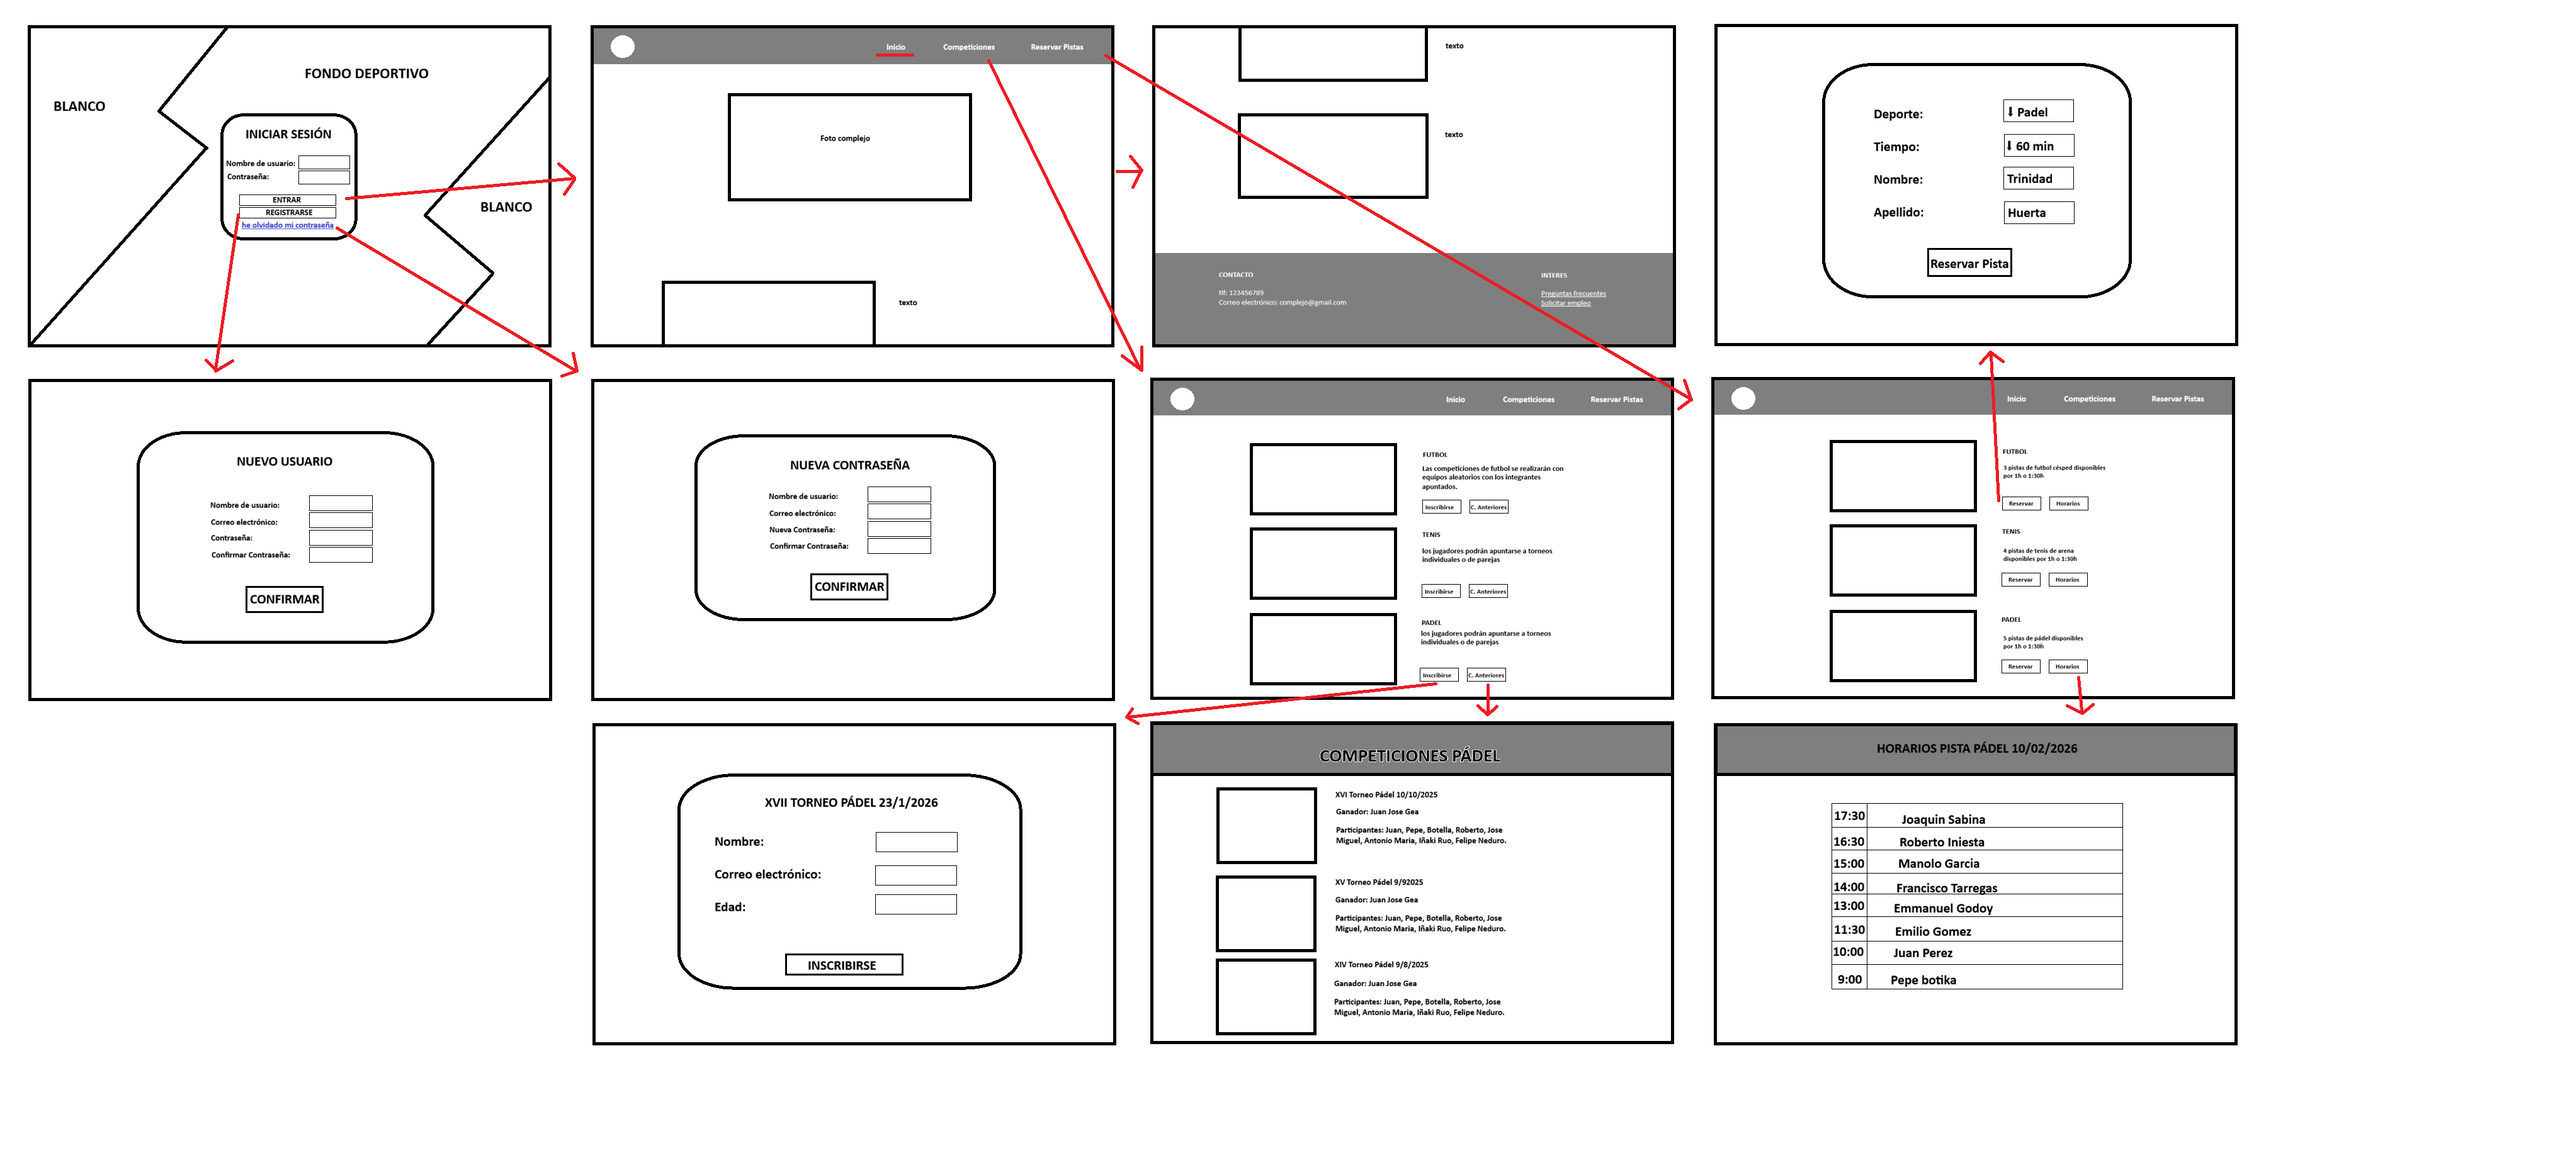
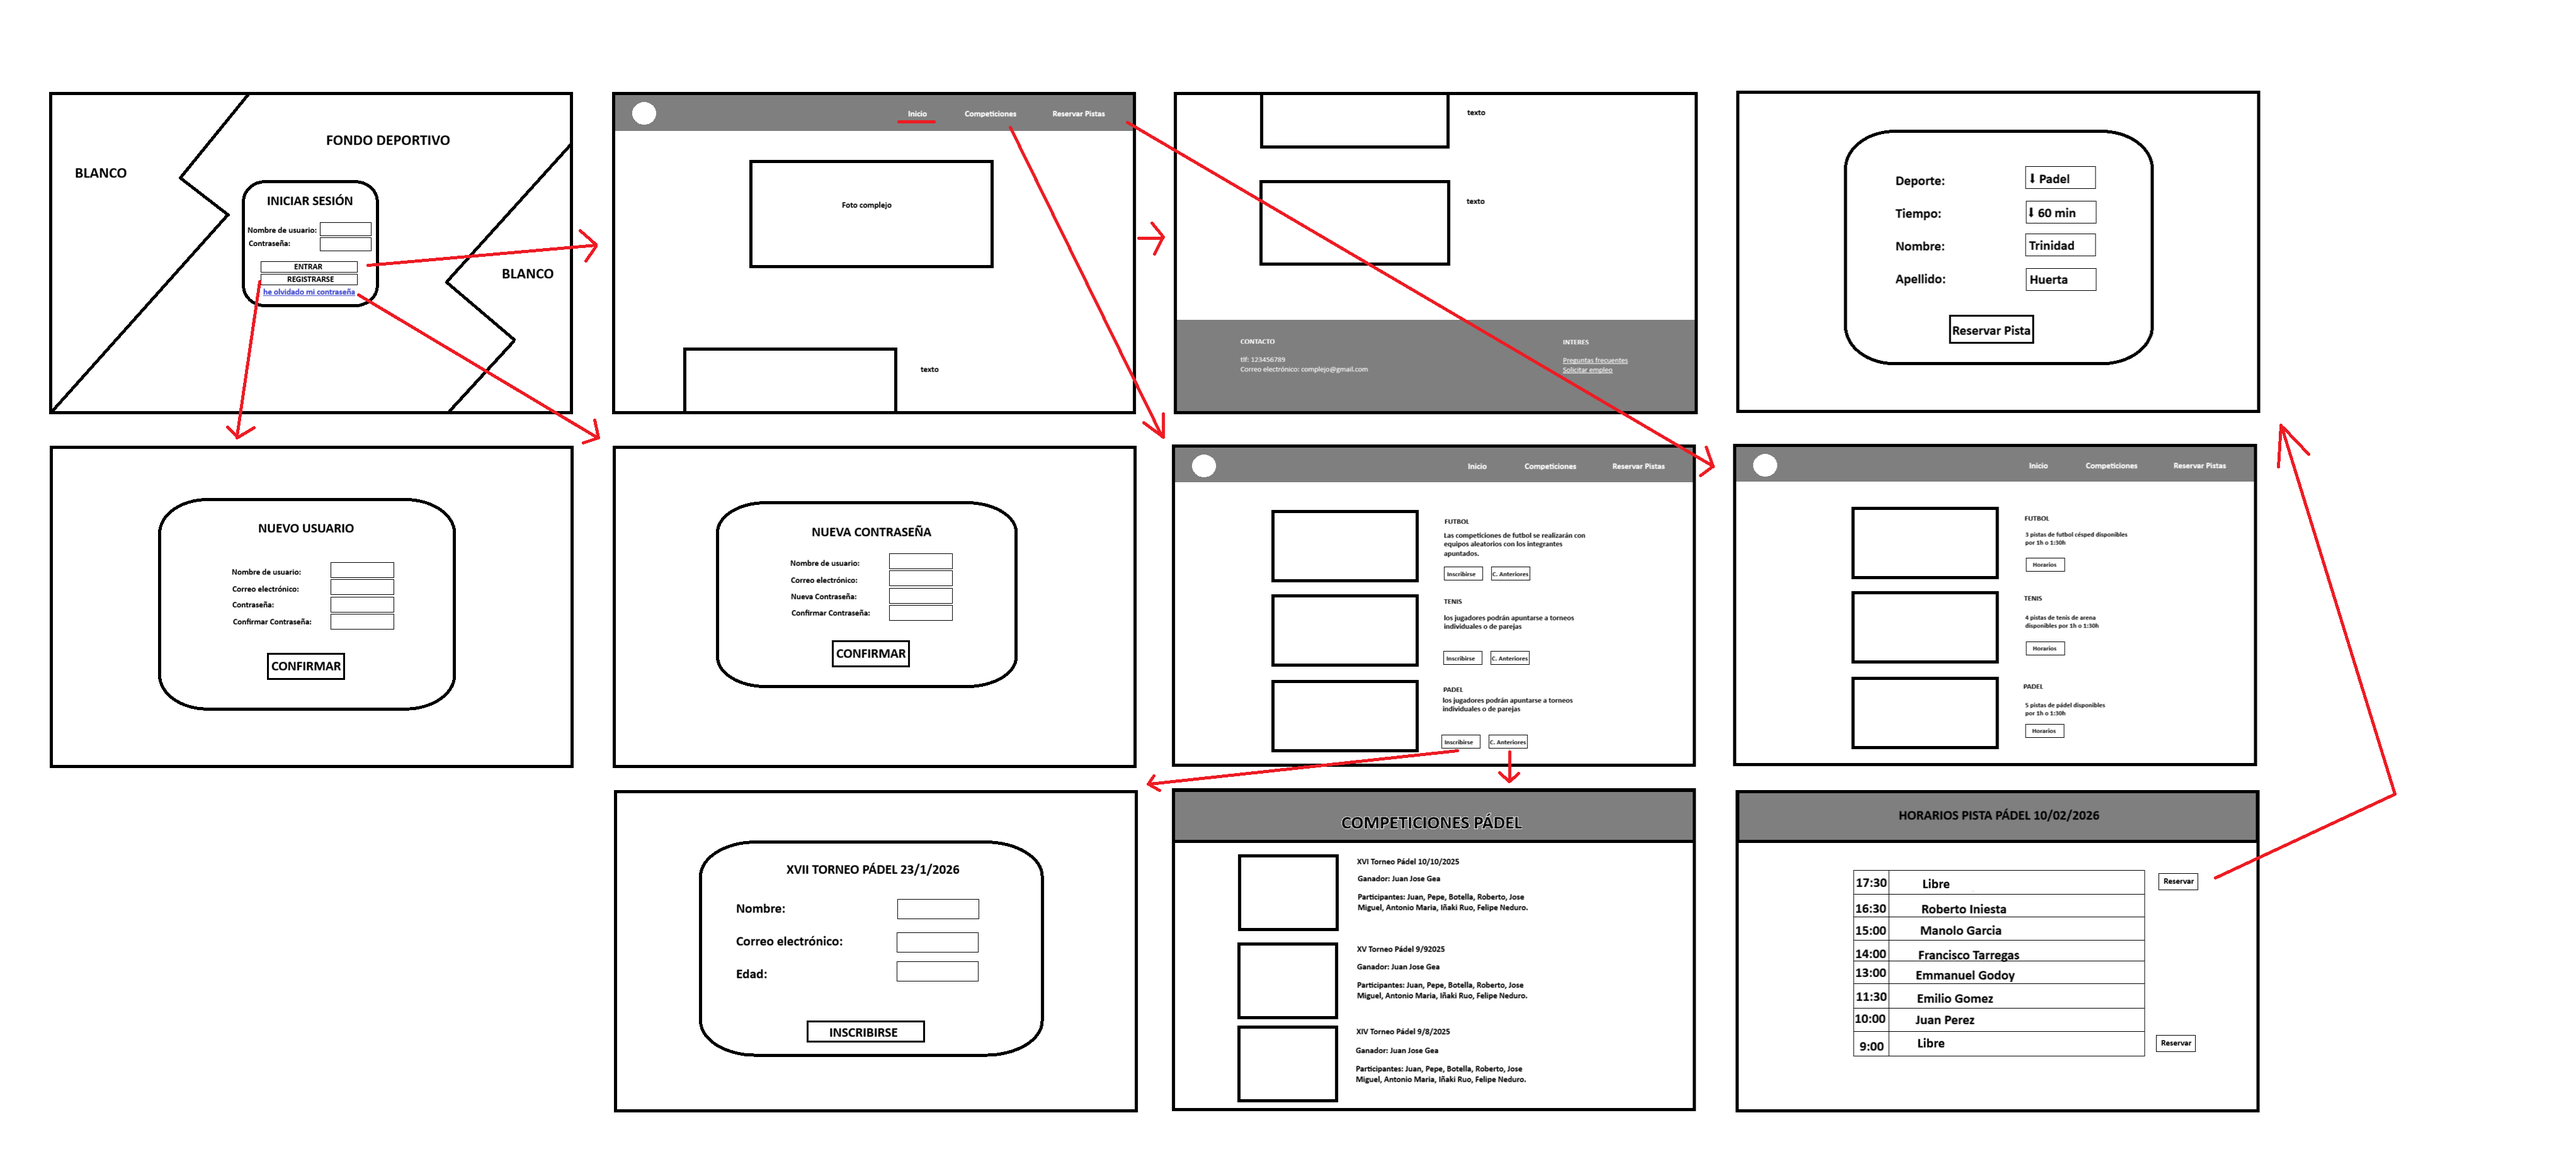
Actualizacion

diff --git a/css/PaginaPrincipal.css b/css/PaginaPrincipal.css
@@ -30,13 +30,10 @@ body {
     text-decoration: none;
     margin-left: 30px;
     font-weight: 500;
-    transition: 0.3s;
+    
 }
 
-.menu a.activo {
-    border-bottom: 2px solid white;
-    padding-bottom: 4px;
-}
+
 
 /* Contenido Principal */
 .contenedor-principal {
@@ -47,32 +44,16 @@ body {
 
 .banner-foto {
     width: 100%;
-    height: 350px;
-    background: white;
-    border: 2px solid #000;
-    border-radius: 20px;
-    display: flex;
-    justify-content: center;
-    align-items: center;
-    font-size: 24px;
-    font-weight: 600;
+    height: auto; /* Permite que la altura crezca con la imagen */
+    background: none; /* Elimina el fondo blanco */
+    border: none;     /* Elimina el recuadro negro */
+    border-radius: 0; /* Elimina las esquinas redondeadas */
+    padding: 0;
     margin-bottom: 40px;
 }
 
-.texto {
-    display: flex;
-    align-items: center;
-    gap: 25px;
-}
-
-.cuadro-boceto {
-    width: 400px;
-    height: 250px;
-    border: 3px solid #000;
-    border-radius: 10px;
-}
-
-.etiqueta {
-    font-size: 20px;
-    font-weight: 600;
+.banner-foto img {
+    width: 100%;      /* Hace la foto más amplia */
+    height: auto;
+    display: block;
 }

diff --git a/PaginaPrincipal.html b/PaginaPrincipal.html
@@ -5,25 +5,21 @@
     <title>Inicio - Gestión de Pistas</title>
     <link rel="stylesheet" href="css/PaginaPrincipal.css">
 </head>
+
 <body>
 
     <nav class="navbar">
         <div class="logo-circular"></div>
         <div class="menu">
-            <a href="#" class="activo">Inicio</a>
-            <a href="#">Competiciones</a>
-            <a href="#">Reservar Pistas</a>
+            <a href="#"> Inicio </a>
+            <a href="#"> Competiciones </a>
+            <a href="#"> Reservar Pistas </a>
         </div>
     </nav>
 
     <article class="contenedor-principal">
         <section class="banner-foto">
-            <p>Foto complejo</p>
-        </section>
-
-        <section class="texto">
-            <div class="cuadro-boceto"></div>
-            <span class="etiqueta">texto</span>
+            <img src="imagenes/complejo.png" alt="Complejo deportivo">
         </section>
     </article>
 

diff --git a/index.html b/index.html
@@ -7,9 +7,13 @@
 </head>
 <body>
 
+    <div id="NombrePrincipal"> 
+        <h1> COMPLEJO DEPORTIVO JUANJERREZ </h1>
+    </div>
+
     <article id="inicio">
     <p id="TituloInicioSesion">INICIAR SESIÓN</p>
-    
+
     <div class="contenedor-inputs">
         <div class="campo">
             <label>Nombre de usuario:</label>

diff --git a/css/index.css b/css/index.css
@@ -22,6 +22,14 @@ body {
     text-align: center;
 }
 
+#NombrePrincipal {
+    color: white;
+    position: absolute;  
+    top: 20px;           
+    right: 20px;        
+    color: white;
+}
+
 #TituloInicioSesion { 
     font-size: 24px; 
     font-weight: 600; 
